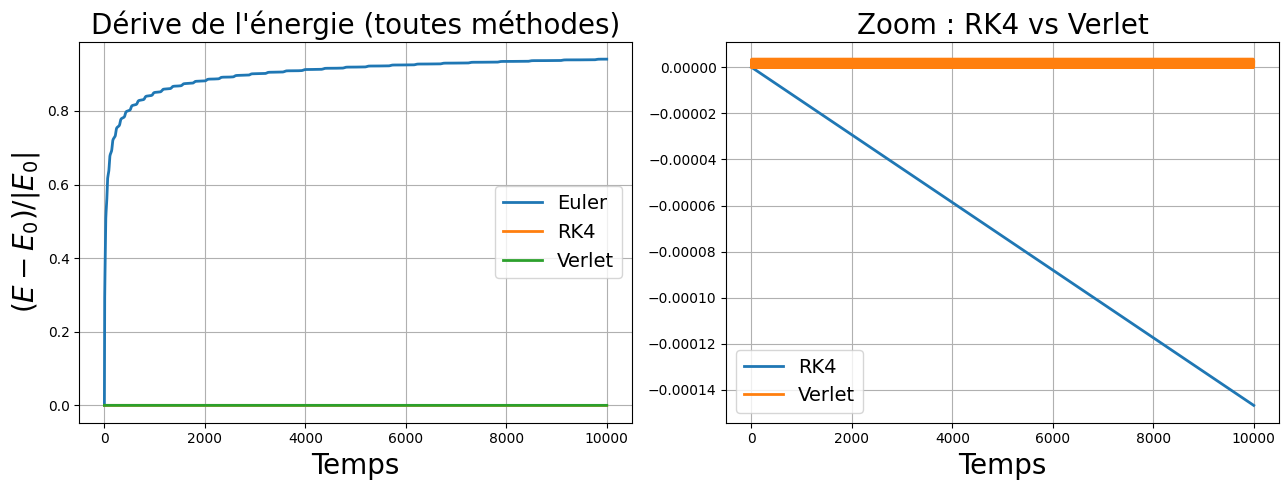
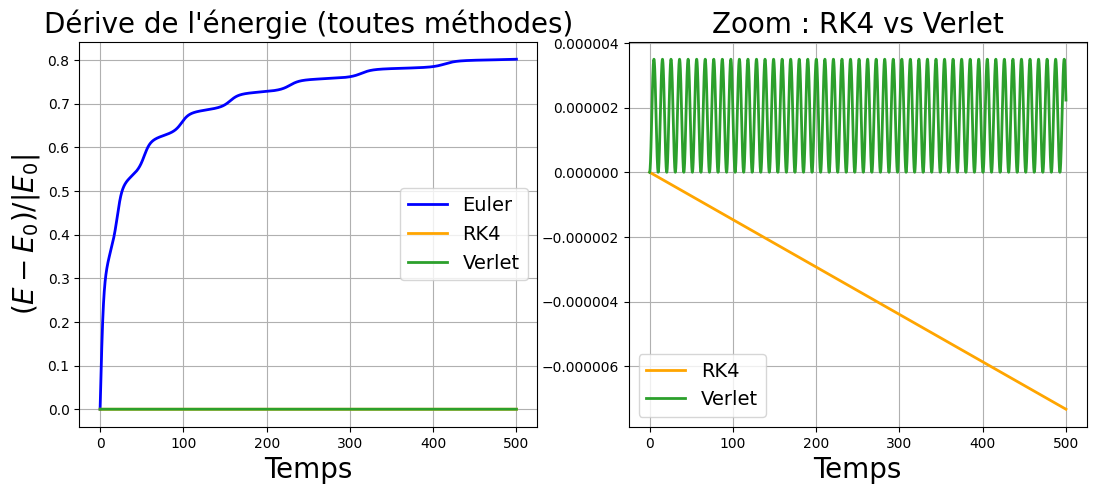
colours

diff --git a/main.py b/main.py
@@ -11,6 +11,8 @@ os.makedirs(FIG_DIR, exist_ok=True)
 parameters = {"axes.labelsize": 20, "axes.titlesize": 20, "figure.titlesize": 20, "figure.figsize": (8, 6), "lines.linewidth": 2, "lines.markersize": 8, "legend.fontsize": 14}
 plt.rcParams.update(parameters)
 
+couleur = {"Verlet ": "green", "RK4": "orange", "Euler": "blue", "Analytique": "gray"}
+
 # Variables globales
 G = 1.0  # constante gravitationnelle (unités arbitraires)
 
@@ -295,21 +297,22 @@ def verlet_integrate(r1_0, r2_0, v1_0, v2_0, m1, m2, t, dt, G=1.0):
     return r1, r2, v1, v2
 
 
-def affiche_positions(t, r1, r2, label1="Corps 1", label2="Corps 2"):
+def affiche_positions(t, r1, r2, methode,label1="Corps 1", label2="Corps 2"):
     """
     Affiche les trajectoires des deux corps.
     param :
         t: temps (array-like)
         r1: positions du corps 1 (array-like)
         r2: positions du corps 2 (array-like)
+        methode : nom de la méthode utilisée (str)
         label1: label pour le corps 1 (str)
         label2: label pour le corps 2 (str)
     return:
         None
     """
     plt.figure()
-    plt.plot(r1[:, 0], r1[:, 1], label=label1)
-    plt.plot(r2[:, 0], r2[:, 1], label=label2)
+    plt.plot(r1[:, 0], r1[:, 1], label=label1, color=couleur.get(methode, "tab:blue"))
+    plt.plot(r2[:, 0], r2[:, 1], label=label2, color=couleur.get(methode, "tab:blue"))
     plt.xlabel("x")
     plt.ylabel("y")
     plt.title("Trajectoires des deux corps")
@@ -337,8 +340,8 @@ def plot_erreur(t, r_1_ana, r2_ana, r1_num, r2_num, dt, method_name=""):
     err2 = np.linalg.norm(r2_num - r2_ana, axis=-1)
 
     plt.figure()
-    plt.plot(t, err1, label=f"Erreur Corps 1 ({method_name})")
-    plt.plot(t, err2, label=f"Erreur Corps 2 ({method_name})")
+    plt.plot(t, err1, label=f"Erreur Corps 1 ({method_name})", color=couleur.get(method_name, "tab:blue"))
+    plt.plot(t, err2, label=f"Erreur Corps 2 ({method_name})", color=couleur.get(method_name, "tab:blue"))
 
     plt.xlabel("Temps")
     plt.ylabel("Erreur (distance)")
@@ -394,9 +397,9 @@ def tracer_erreur_vs_dt(dt_min=1e-4, dt_max=1.0, nb_points=6, T=100.0):
 
     # Tracé
     plt.figure(figsize=(8, 6))
-    plt.loglog(dt_list, erreur_euler, marker="o", label="Euler")
-    plt.loglog(dt_list, erreur_rk4, marker="o", label="RK4")
-    plt.loglog(dt_list, erreur_verlet, marker="o", label="Verlet")
+    plt.loglog(dt_list, erreur_euler, marker="o", label="Euler", colors = "tab:blue")
+    plt.loglog(dt_list, erreur_rk4, marker="o", label="RK4", colors = "tab:orange")
+    plt.loglog(dt_list, erreur_verlet, marker="o", label="Verlet", colors = "tab:green")
     plt.xlabel("Pas de temps dt")
     plt.ylabel("Erreur maximale")
     plt.title("Erreur maximale en fonction du pas de temps")
@@ -460,17 +463,17 @@ def tracer_energie_double(t, r1_eul, r2_eul, v1_eul, v2_eul, r1_rk4, r2_rk4, v1_
 
     fig, (ax1, ax2) = plt.subplots(1, 2, figsize=(13, 5))
 
-    ax1.plot(t, y_eul, label="Euler")
-    ax1.plot(t, y_rk4, label="RK4")
-    ax1.plot(t, y_ver, label="Verlet")
+    ax1.plot(t, y_eul, label="Euler",color=couleur.get("Euler", "tab:blue"))
+    ax1.plot(t, y_rk4, label="RK4", color=couleur.get("RK4", "tab:orange"))
+    ax1.plot(t, y_ver, label="Verlet", color=couleur.get("Verlet", "tab:green"))
     ax1.set_title("Dérive de l'énergie (toutes méthodes)")
     ax1.set_xlabel("Temps")
     ax1.set_ylabel(r"$(E - E_0)/|E_0|$")
     ax1.grid(True)
     ax1.legend()
 
-    ax2.plot(t, y_rk4, label="RK4")
-    ax2.plot(t, y_ver, label="Verlet")
+    ax2.plot(t, y_rk4, label="RK4", color=couleur.get("RK4", "tab:orange"))
+    ax2.plot(t, y_ver, label="Verlet", color=couleur.get("Verlet", "tab:green"))
     ax2.set_title("Zoom : RK4 vs Verlet")
     ax2.set_xlabel("Temps")
     ax2.grid(True)
@@ -518,8 +521,8 @@ def drift_energie_vs_dt(dt_list, T, r_01, r_02, v_01, v_02, m1, m2, G=1.0):
         drift_ver.append(np.max(np.abs(y_ver)))
 
     plt.figure(figsize=(8, 6))
-    plt.loglog(dt_list, drift_rk4, marker="o", label="RK4")
-    plt.loglog(dt_list, drift_ver, marker="o", label="Verlet")
+    plt.loglog(dt_list, drift_rk4, marker="o", label="RK4", color=couleur.get("RK4", "tab:orange"))
+    plt.loglog(dt_list, drift_ver, marker="o", label="Verlet", color=couleur.get("Verlet", "tab:green"))
     plt.xlabel("dt")
     plt.ylabel(r"max |(E - E0)/|E0||")
     plt.title("Dérive max d'énergie en fonction de dt")
@@ -548,15 +551,15 @@ r_02 = (-1.0, 0.0)
 v_01, v_02 = vitesses_circulaires(r_01, r_02, m1, m2, G, sens=+1)
 
 dt = 0.1
-t = np.arange(0, 10000, dt)
+t = np.arange(0, 500, dt)
 
 #=============================================================
 # calcule des positions et vitesses avec les différentes méthodes
 
-# r1_ana, r2_ana, omega = position_analytique(r_01, r_02, v_01, v_02, m1, m2, t, G)
-# r1_eul, r2_eul, v1_eul, v2_eul = euler_explicite(r_01, r_02, v_01, v_02, m1, m2, t, dt, G)
-# r1_rk4, r2_rk4, v1_rk4, v2_rk4 = rk4_integrate(r_01, r_02, v_01, v_02, m1, m2, t, dt, G)
-# r1_verlet, r2_verlet, v1_verlet, v2_verlet = verlet_integrate(r_01, r_02, v_01, v_02, m1, m2, t, dt, G)
+r1_ana, r2_ana, omega = position_analytique(r_01, r_02, v_01, v_02, m1, m2, t, G)
+r1_eul, r2_eul, v1_eul, v2_eul = euler_explicite(r_01, r_02, v_01, v_02, m1, m2, t, dt, G)
+r1_rk4, r2_rk4, v1_rk4, v2_rk4 = rk4_integrate(r_01, r_02, v_01, v_02, m1, m2, t, dt, G)
+r1_verlet, r2_verlet, v1_verlet, v2_verlet = verlet_integrate(r_01, r_02, v_01, v_02, m1, m2, t, dt, G)
 
 #=============================================================
 # affichage des trajectoires
@@ -569,13 +572,13 @@ t = np.arange(0, 10000, dt)
 #=============================================================
 # etude de l'energie mécanique
 
-# tracer_energie_double(
-#     t,
-#     r1_eul, r2_eul, v1_eul, v2_eul,
-#     r1_rk4, r2_rk4, v1_rk4, v2_rk4,
-#     r1_verlet, r2_verlet, v1_verlet, v2_verlet,
-#     m1, m2, G
-# )
+tracer_energie_double(
+    t,
+    r1_eul, r2_eul, v1_eul, v2_eul,
+    r1_rk4, r2_rk4, v1_rk4, v2_rk4,
+    r1_verlet, r2_verlet, v1_verlet, v2_verlet,
+    m1, m2, G
+)
 
 # dt_list = [0.2, 0.1, 0.05, 0.025, 0.0125]
 # drift_energie_vs_dt(dt_list, T=300, r_01=r_01, r_02=r_02, v_01=v_01, v_02=v_02, m1=m1, m2=m2, G=G)
@@ -1161,14 +1164,14 @@ def demo_figure_eight(dt=0.005, T=50.0, G=1.0, eps=1e-12, method="verlet"):
     method: méthode d'intégration ("rk4" ou "verlet")
     return:
     t, m, R0, V0, Rs, Vs, E, L
-     - t: temps (array de taille (Tn,))
-     - m: masses des N corps (array de taille (N,))
-     - R0: positions initiales des N corps (array de taille (N,2))
-     - V0: vitesses initiales des N corps (array de taille (N,2))
-     - Rs: positions des N corps à chaque instant t (array de taille (Tn,N,2))
-     - Vs: vitesses des N corps à chaque instant t (array de taille (Tn,N,2))
-     - E: énergie mécanique totale à chaque instant t (array de taille (Tn,))
-     - L: moment cinétique total à chaque instant t (array de taille (Tn,))
+    - t: temps (array de taille (Tn,))
+    - m: masses des N corps (array de taille (N,))
+    - R0: positions initiales des N corps (array de taille (N,2))
+    - V0: vitesses initiales des N corps (array de taille (N,2))
+    - Rs: positions des N corps à chaque instant t (array de taille (Tn,N,2))
+    - Vs: vitesses des N corps à chaque instant t (array de taille (Tn,N,2))
+    - E: énergie mécanique totale à chaque instant t (array de taille (Tn,))
+    - L: moment cinétique total à chaque instant t (array de taille (Tn,))
     """
     m, R0, V0 = scenario_figure_eight(G=G)
     t = np.arange(0.0, T, dt)
@@ -1393,13 +1396,13 @@ def lyapunov_map_figure_eight(
 # )
 # demo_figure_eight(dt=0.005, T=100.0, method="verlet")
 
-lyapunov_map_figure_eight(
-    dx_min=-0.02, dx_max=0.02,
-    dy_min=-0.02, dy_max=0.02,
-    n=61,
-    dt=0.005,
-    T=6.3259*2,
-    method="verlet",
-    use_max_over_time=True,
-    clip_lambda=(0.0, 2.0)
-)
+# lyapunov_map_figure_eight(
+#     dx_min=-0.02, dx_max=0.02,
+#     dy_min=-0.02, dy_max=0.02,
+#     n=61,
+#     dt=0.005,
+#     T=6.3259*2,
+#     method="verlet",
+#     use_max_over_time=True,
+#     clip_lambda=(0.0, 2.0)
+# )
